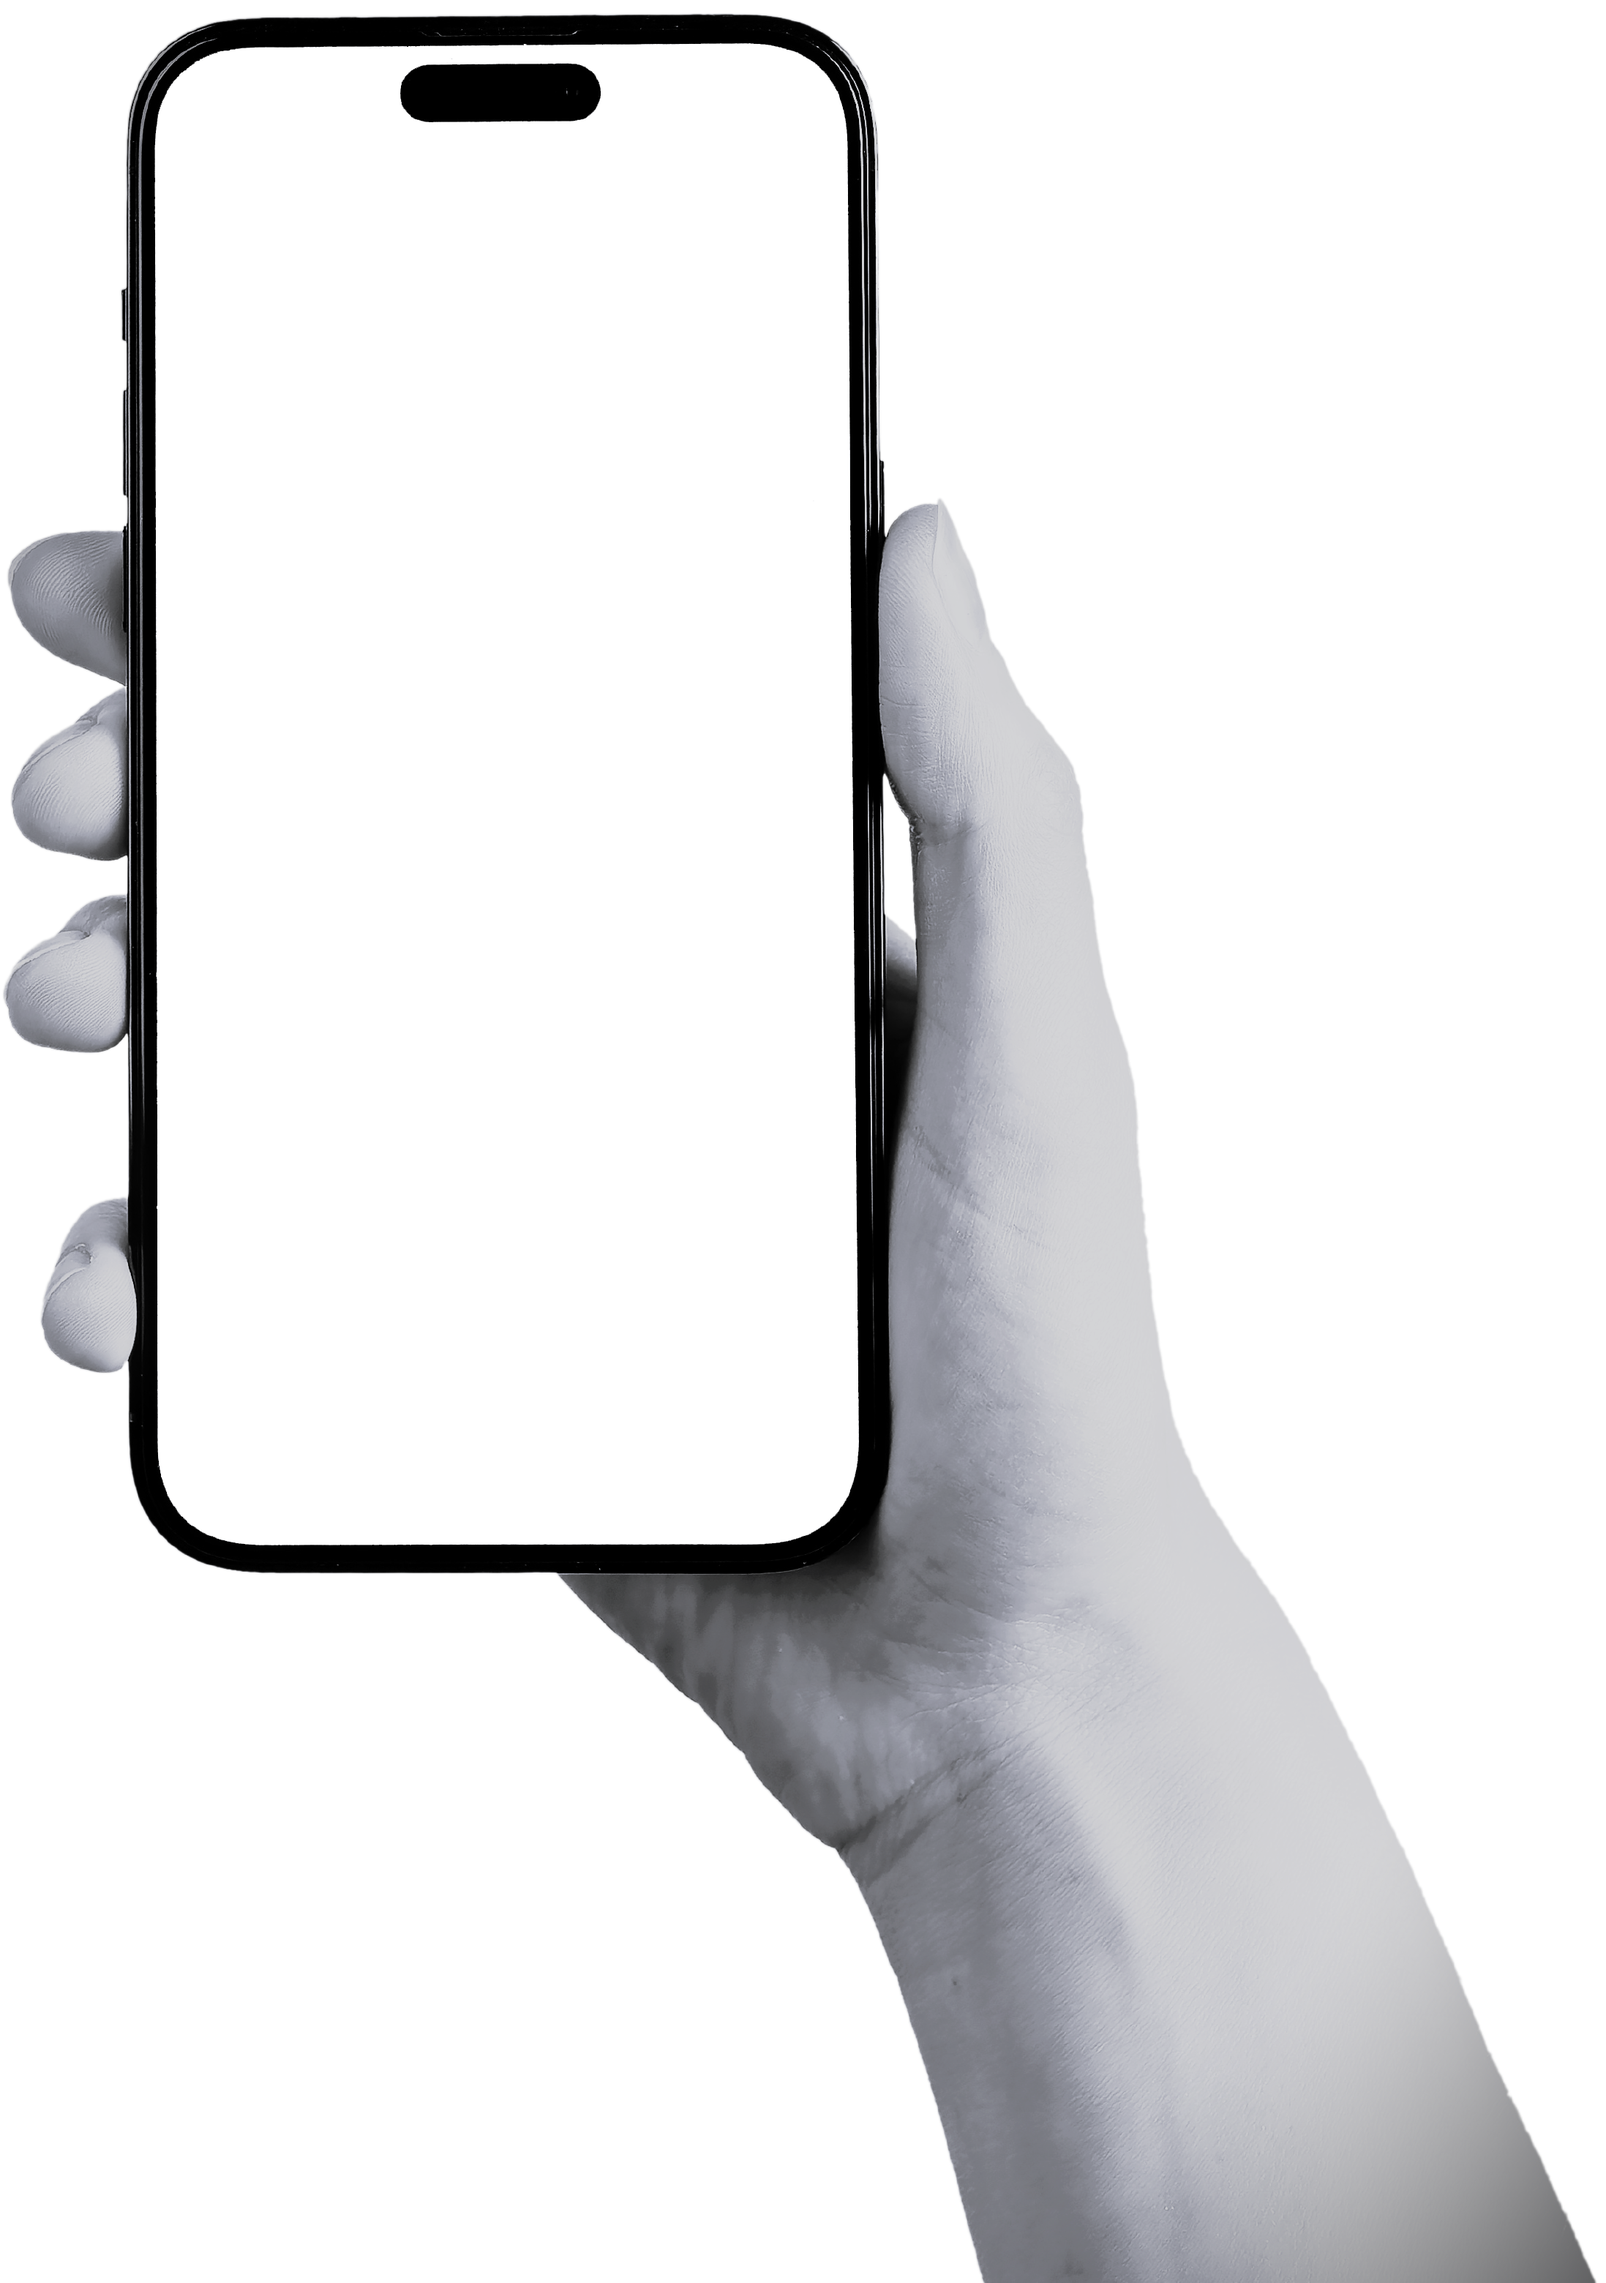
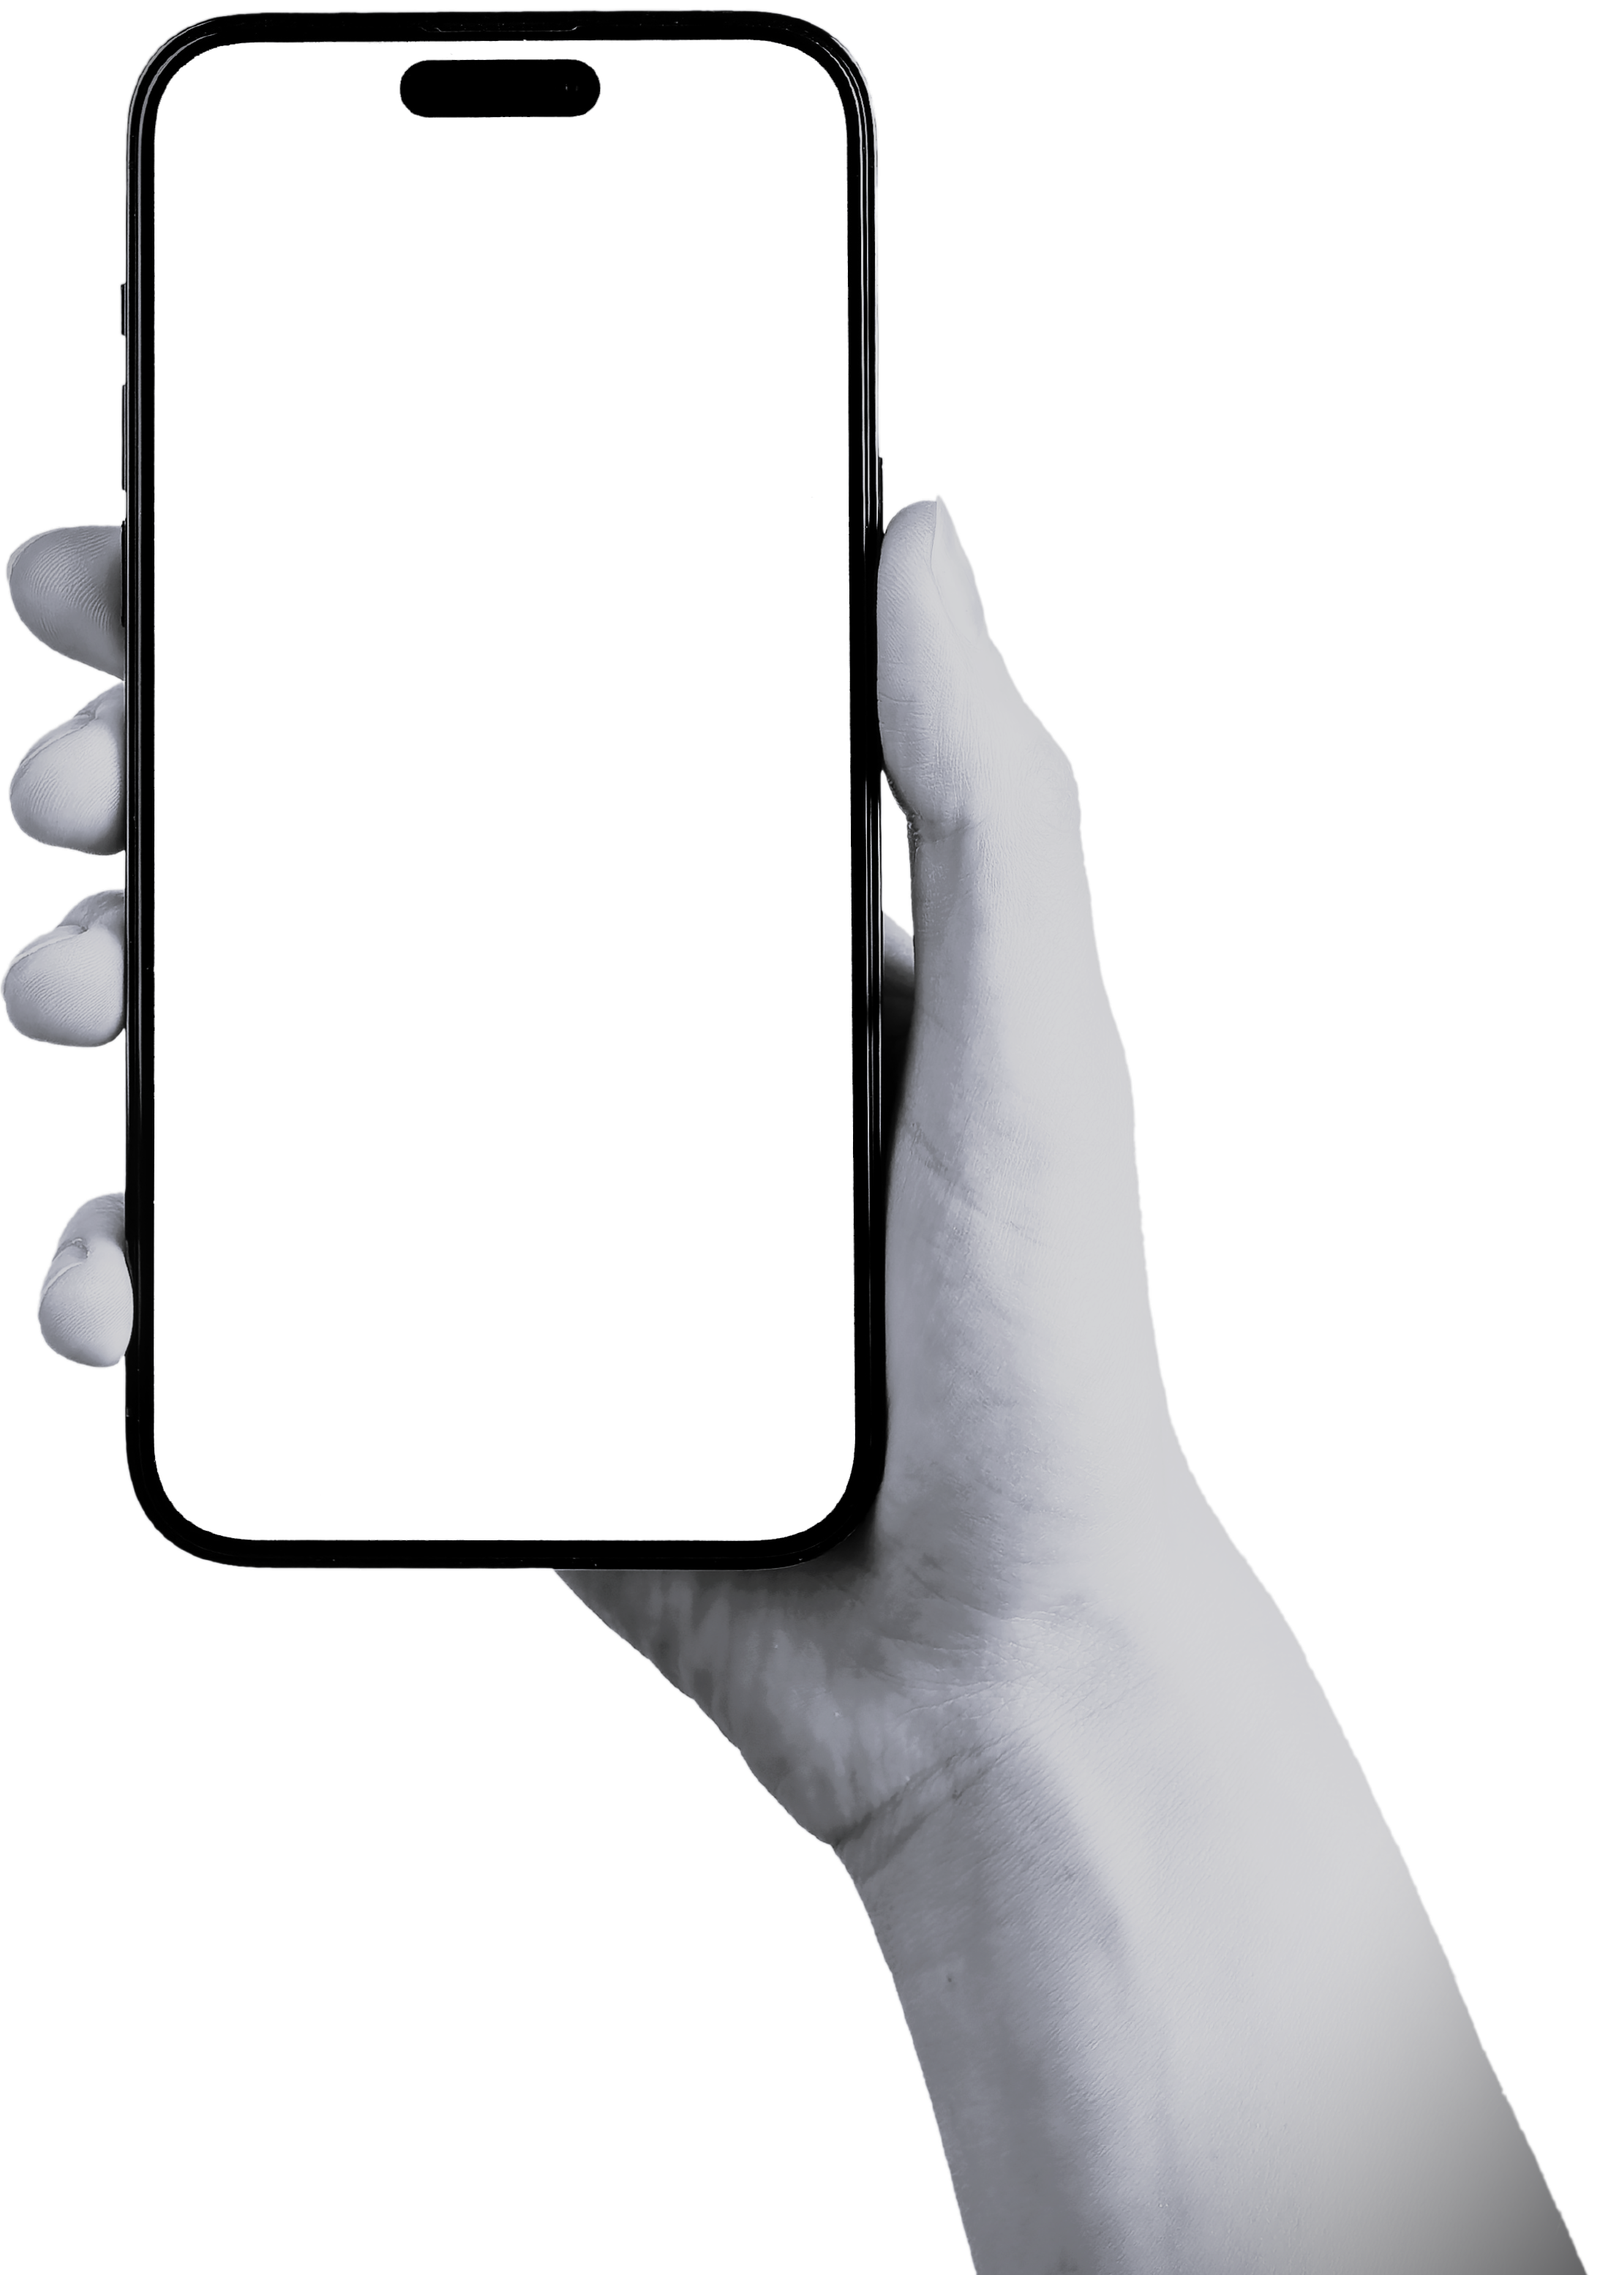
Added db-v1 skeleton.

diff --git a/frontend/src/components/ui/progressive-blur.tsx b/frontend/src/components/ui/progressive-blur.tsx
@@ -1,0 +1,111 @@
+import React from "react"
+
+import { cn } from "@/lib/utils"
+
+export interface ProgressiveBlurProps {
+  className?: string
+  height?: string
+  position?: "top" | "bottom" | "both"
+  blurLevels?: number[]
+  children?: React.ReactNode
+}
+
+export function ProgressiveBlur({
+  className,
+  height = "30%",
+  position = "bottom",
+  blurLevels = [0.5, 1, 2, 4, 8, 16, 32, 64],
+}: ProgressiveBlurProps) {
+  // Create array with length equal to blurLevels.length - 2 (for before/after pseudo elements)
+  const divElements = Array(blurLevels.length - 2).fill(null)
+
+  return (
+    <div
+      className={cn(
+        "gradient-blur pointer-events-none absolute inset-x-0 z-10",
+        className,
+        position === "top"
+          ? "top-0"
+          : position === "bottom"
+            ? "bottom-0"
+            : "inset-y-0"
+      )}
+      style={{
+        height: position === "both" ? "100%" : height,
+      }}
+    >
+      {/* First blur layer (pseudo element) */}
+      <div
+        className="absolute inset-0"
+        style={{
+          zIndex: 1,
+          backdropFilter: `blur(${blurLevels[0]}px)`,
+          WebkitBackdropFilter: `blur(${blurLevels[0]}px)`,
+          maskImage:
+            position === "bottom"
+              ? `linear-gradient(to bottom, rgba(0,0,0,0) 0%, rgba(0,0,0,1) 12.5%, rgba(0,0,0,1) 25%, rgba(0,0,0,0) 37.5%)`
+              : position === "top"
+                ? `linear-gradient(to top, rgba(0,0,0,0) 0%, rgba(0,0,0,1) 12.5%, rgba(0,0,0,1) 25%, rgba(0,0,0,0) 37.5%)`
+                : `linear-gradient(rgba(0,0,0,0) 0%, rgba(0,0,0,1) 5%, rgba(0,0,0,1) 95%, rgba(0,0,0,0) 100%)`,
+          WebkitMaskImage:
+            position === "bottom"
+              ? `linear-gradient(to bottom, rgba(0,0,0,0) 0%, rgba(0,0,0,1) 12.5%, rgba(0,0,0,1) 25%, rgba(0,0,0,0) 37.5%)`
+              : position === "top"
+                ? `linear-gradient(to top, rgba(0,0,0,0) 0%, rgba(0,0,0,1) 12.5%, rgba(0,0,0,1) 25%, rgba(0,0,0,0) 37.5%)`
+                : `linear-gradient(rgba(0,0,0,0) 0%, rgba(0,0,0,1) 5%, rgba(0,0,0,1) 95%, rgba(0,0,0,0) 100%)`,
+        }}
+      />
+
+      {/* Middle blur layers */}
+      {divElements.map((_, index) => {
+        const blurIndex = index + 1
+        const startPercent = blurIndex * 12.5
+        const midPercent = (blurIndex + 1) * 12.5
+        const endPercent = (blurIndex + 2) * 12.5
+
+        const maskGradient =
+          position === "bottom"
+            ? `linear-gradient(to bottom, rgba(0,0,0,0) ${startPercent}%, rgba(0,0,0,1) ${midPercent}%, rgba(0,0,0,1) ${endPercent}%, rgba(0,0,0,0) ${endPercent + 12.5}%)`
+            : position === "top"
+              ? `linear-gradient(to top, rgba(0,0,0,0) ${startPercent}%, rgba(0,0,0,1) ${midPercent}%, rgba(0,0,0,1) ${endPercent}%, rgba(0,0,0,0) ${endPercent + 12.5}%)`
+              : `linear-gradient(rgba(0,0,0,0) 0%, rgba(0,0,0,1) 5%, rgba(0,0,0,1) 95%, rgba(0,0,0,0) 100%)`
+
+        return (
+          <div
+            key={`blur-${index}`}
+            className="absolute inset-0"
+            style={{
+              zIndex: index + 2,
+              backdropFilter: `blur(${blurLevels[blurIndex]}px)`,
+              WebkitBackdropFilter: `blur(${blurLevels[blurIndex]}px)`,
+              maskImage: maskGradient,
+              WebkitMaskImage: maskGradient,
+            }}
+          />
+        )
+      })}
+
+      {/* Last blur layer (pseudo element) */}
+      <div
+        className="absolute inset-0"
+        style={{
+          zIndex: blurLevels.length,
+          backdropFilter: `blur(${blurLevels[blurLevels.length - 1]}px)`,
+          WebkitBackdropFilter: `blur(${blurLevels[blurLevels.length - 1]}px)`,
+          maskImage:
+            position === "bottom"
+              ? `linear-gradient(to bottom, rgba(0,0,0,0) 87.5%, rgba(0,0,0,1) 100%)`
+              : position === "top"
+                ? `linear-gradient(to top, rgba(0,0,0,0) 87.5%, rgba(0,0,0,1) 100%)`
+                : `linear-gradient(rgba(0,0,0,0) 0%, rgba(0,0,0,1) 5%, rgba(0,0,0,1) 95%, rgba(0,0,0,0) 100%)`,
+          WebkitMaskImage:
+            position === "bottom"
+              ? `linear-gradient(to bottom, rgba(0,0,0,0) 87.5%, rgba(0,0,0,1) 100%)`
+              : position === "top"
+                ? `linear-gradient(to top, rgba(0,0,0,0) 87.5%, rgba(0,0,0,1) 100%)`
+                : `linear-gradient(rgba(0,0,0,0) 0%, rgba(0,0,0,1) 5%, rgba(0,0,0,1) 95%, rgba(0,0,0,0) 100%)`,
+        }}
+      />
+    </div>
+  )
+}

diff --git a/frontend/src/components/ui/card.tsx b/frontend/src/components/ui/card.tsx
@@ -1,0 +1,92 @@
+import * as React from "react"
+
+import { cn } from "@/lib/utils"
+
+function Card({ className, ...props }: React.ComponentProps<"div">) {
+  return (
+    <div
+      data-slot="card"
+      className={cn(
+        "bg-card text-card-foreground flex flex-col gap-6 rounded-xl border py-6 shadow-sm",
+        className
+      )}
+      {...props}
+    />
+  )
+}
+
+function CardHeader({ className, ...props }: React.ComponentProps<"div">) {
+  return (
+    <div
+      data-slot="card-header"
+      className={cn(
+        "@container/card-header grid auto-rows-min grid-rows-[auto_auto] items-start gap-2 px-6 has-data-[slot=card-action]:grid-cols-[1fr_auto] [.border-b]:pb-6",
+        className
+      )}
+      {...props}
+    />
+  )
+}
+
+function CardTitle({ className, ...props }: React.ComponentProps<"div">) {
+  return (
+    <div
+      data-slot="card-title"
+      className={cn("leading-none font-semibold", className)}
+      {...props}
+    />
+  )
+}
+
+function CardDescription({ className, ...props }: React.ComponentProps<"div">) {
+  return (
+    <div
+      data-slot="card-description"
+      className={cn("text-muted-foreground text-sm", className)}
+      {...props}
+    />
+  )
+}
+
+function CardAction({ className, ...props }: React.ComponentProps<"div">) {
+  return (
+    <div
+      data-slot="card-action"
+      className={cn(
+        "col-start-2 row-span-2 row-start-1 self-start justify-self-end",
+        className
+      )}
+      {...props}
+    />
+  )
+}
+
+function CardContent({ className, ...props }: React.ComponentProps<"div">) {
+  return (
+    <div
+      data-slot="card-content"
+      className={cn("px-6", className)}
+      {...props}
+    />
+  )
+}
+
+function CardFooter({ className, ...props }: React.ComponentProps<"div">) {
+  return (
+    <div
+      data-slot="card-footer"
+      className={cn("flex items-center px-6 [.border-t]:pt-6", className)}
+      {...props}
+    />
+  )
+}
+
+export {
+  Card,
+  CardHeader,
+  CardFooter,
+  CardTitle,
+  CardAction,
+  CardDescription,
+  CardContent,
+}

diff --git a/backend/src/sockets/sockets.ts b/backend/src/sockets/sockets.ts
@@ -8,24 +8,33 @@ interface Users {
 }
 
 let clients: Users[] = [];
+let parsedMessage: any;
 
-ws.on('connection', (socket) => {
-    
-    socket.send('User connected.');
-    clients.push({ socket });
-    // console.log(socket);
+ws.on('connection', (socket) => {    
+    try {
+        socket.send('User connected.');
+        clients.push({ socket });
+        // console.log(socket);
 
-    socket.on('message', (message) => {
-        clients.forEach((client) => {
-            if(client.socket !== socket && client.socket.readyState === WebSocket.OPEN) {
-                client.socket.send(message.toString());
-            }
+        socket.on('message', (message) => {
+            parsedMessage = JSON.parse(message.toString());
+
+            console.log(parsedMessage.payload.msg);
+            clients.forEach((client) => {
+
+                if(client.socket !== socket && client.socket.readyState === WebSocket.OPEN) {
+                    client.socket.send(message.toString());
+                }
+            });
         });
-    });
 
-    socket.on('close', () => {
-        console.log('User disconnected.');
-    });
+        socket.on('close', () => {
+            console.log('User disconnected.');
+        });
+    } catch(err) {
+        console.log('Mai fatgaya!');
+    }
+    
 });
 
 

diff --git a/frontend/src/pages/chat.tsx b/frontend/src/pages/chat.tsx
@@ -1,10 +1,36 @@
 function IPhone() {
   return (
-    <div className='flex justify-end'>
-        <img className='w-[35vw]' src="./iphone.png" alt="" />
-        <p></p>
+    <div className="relative w-[35vw] mx-auto">
+      {/* App screen inside phone */}
+      <div
+        className="absolute top-[1.5%] left-[11%] w-[49.5%] h-[67%] rounded-[2vw] overflow-hidden bg-white shadow-inner"
+      >
+        <div
+          className="w-full h-full overflow-hidden flex items-center justify-center"
+        >
+          <iframe
+            src="https://www.aryancodes.dev"
+            title="App Preview"
+            className="border-none"
+            style={{
+              width: "125%",       // make iframe slightly wider to fit scaled content
+              height: "125%",
+              transform: "scale(0.8)", // zoom out content
+              transformOrigin: "0 0",  // keep zoom anchored to top-left
+              border: "none",
+            }}
+          />
+        </div>
+      </div>
+
+      {/* iPhone frame */}
+      <img
+        src="./iphone.png"
+        alt="iPhone frame"
+        className="relative z-10 w-full pointer-events-none"
+      />
     </div>
-  )
+  );
 }
 
 export default IPhone;

diff --git a/frontend/src/pages/main.tsx b/frontend/src/pages/main.tsx
@@ -13,7 +13,7 @@ function Main() {
       <div className="mt-[3vw] ml-[3vw] mr-[3vw]">
         
         <Navbar />
-        <div className="mt-[6vw]">
+        <div className="mt-[5vw]">
             <Header />
         </div>
         
@@ -32,11 +32,12 @@ export function Header() {
         <div className="w-[60vw]">
             <p className="tracking-[-0.15vw] text-[3vw]">A {" "}<span ><Highlighter action="underline" color="#FF9800" animationDuration={900}>real-time messaging platform</Highlighter> {" "}</span> with private chats and community rooms, keeping teams and communities connected seamlessly.</p>
             <MarqueeDemo />
+            <div className="text-[1.25vw] mt-[2vw] text-gray-500">
+              {/* <p></p>
+              <img src="./react.png" alt="react" className="mt-[1vw] w-[3vw]" />
+            */}</div> 
         </div>
     )
 }
-
-
-
 
 export default Main

diff --git a/backend/src/models/db.ts b/backend/src/models/db.ts
@@ -6,7 +6,22 @@ dotenv.config();
 mongoose.connect(`${process.env.MONGO_URL}`);
 //@ts-ignore
 const userSchema = mongoose.Schema({
-    firstName: {
-        
+    userDetails: {
+        name: {
+            default: "",
+            type: String
+        },
+        username: {
+            default: "",
+            type: String
+        },
+        friends: [{
+            default: "",
+            type: String 
+        }]
     }
 });
+
+const users = mongoose.model('sockify-users', userSchema);
+
+module.exports = { users };

diff --git a/frontend/src/pages/docker.tsx b/frontend/src/pages/docker.tsx
@@ -17,7 +17,7 @@ export function Docker() {
         }
     }
     return(
-        <div className="fixed left-[43%] bottom-[1vw]">
+        <div className="fixed left-[43%] bottom-[1vw] z-[2]">
             <Dock className="">
                 <DockIcon>
                     <HoverCard openDelay={100} closeDelay={100}>

diff --git a/frontend/src/index.css b/frontend/src/index.css
@@ -1,1 +1,14 @@
 @import 'tailwindcss';
+
+.iframe-hide-scrollbar {
+  overflow: hidden;
+}
+
+/* Hide scrollbar on supported browsers */
+.iframe-hide-scrollbar::-webkit-scrollbar {
+  display: none;
+}
+
+.iframe-hide-scrollbar {
+  scrollbar-width: none; /* Firefox */
+}

diff --git a/frontend/src/App.css b/frontend/src/App.css
@@ -145,7 +145,7 @@ html, body {
   font-family: "Inter", sans-serif;
   letter-spacing: -0.05vw;
   overflow-x: scroll;
-  overflow-y: scroll;
+  overflow-y: hidden;
   scrollbar-width: none;
 }
 

diff --git a/frontend/tailwind.config.js b/frontend/tailwind.config.js
@@ -1,0 +1,6 @@
+module.exports = {
+  theme: {},
+  plugins: [
+    require('tailwind-scrollbar-hide')
+  ],
+}

diff --git a/frontend/src/pages/chat.css b/frontend/src/pages/chat.css
@@ -1,0 +1,5 @@
+.frameI {
+    overflow-x: scroll;
+    overflow-y: scroll;
+    scrollbar-width: none;
+}
